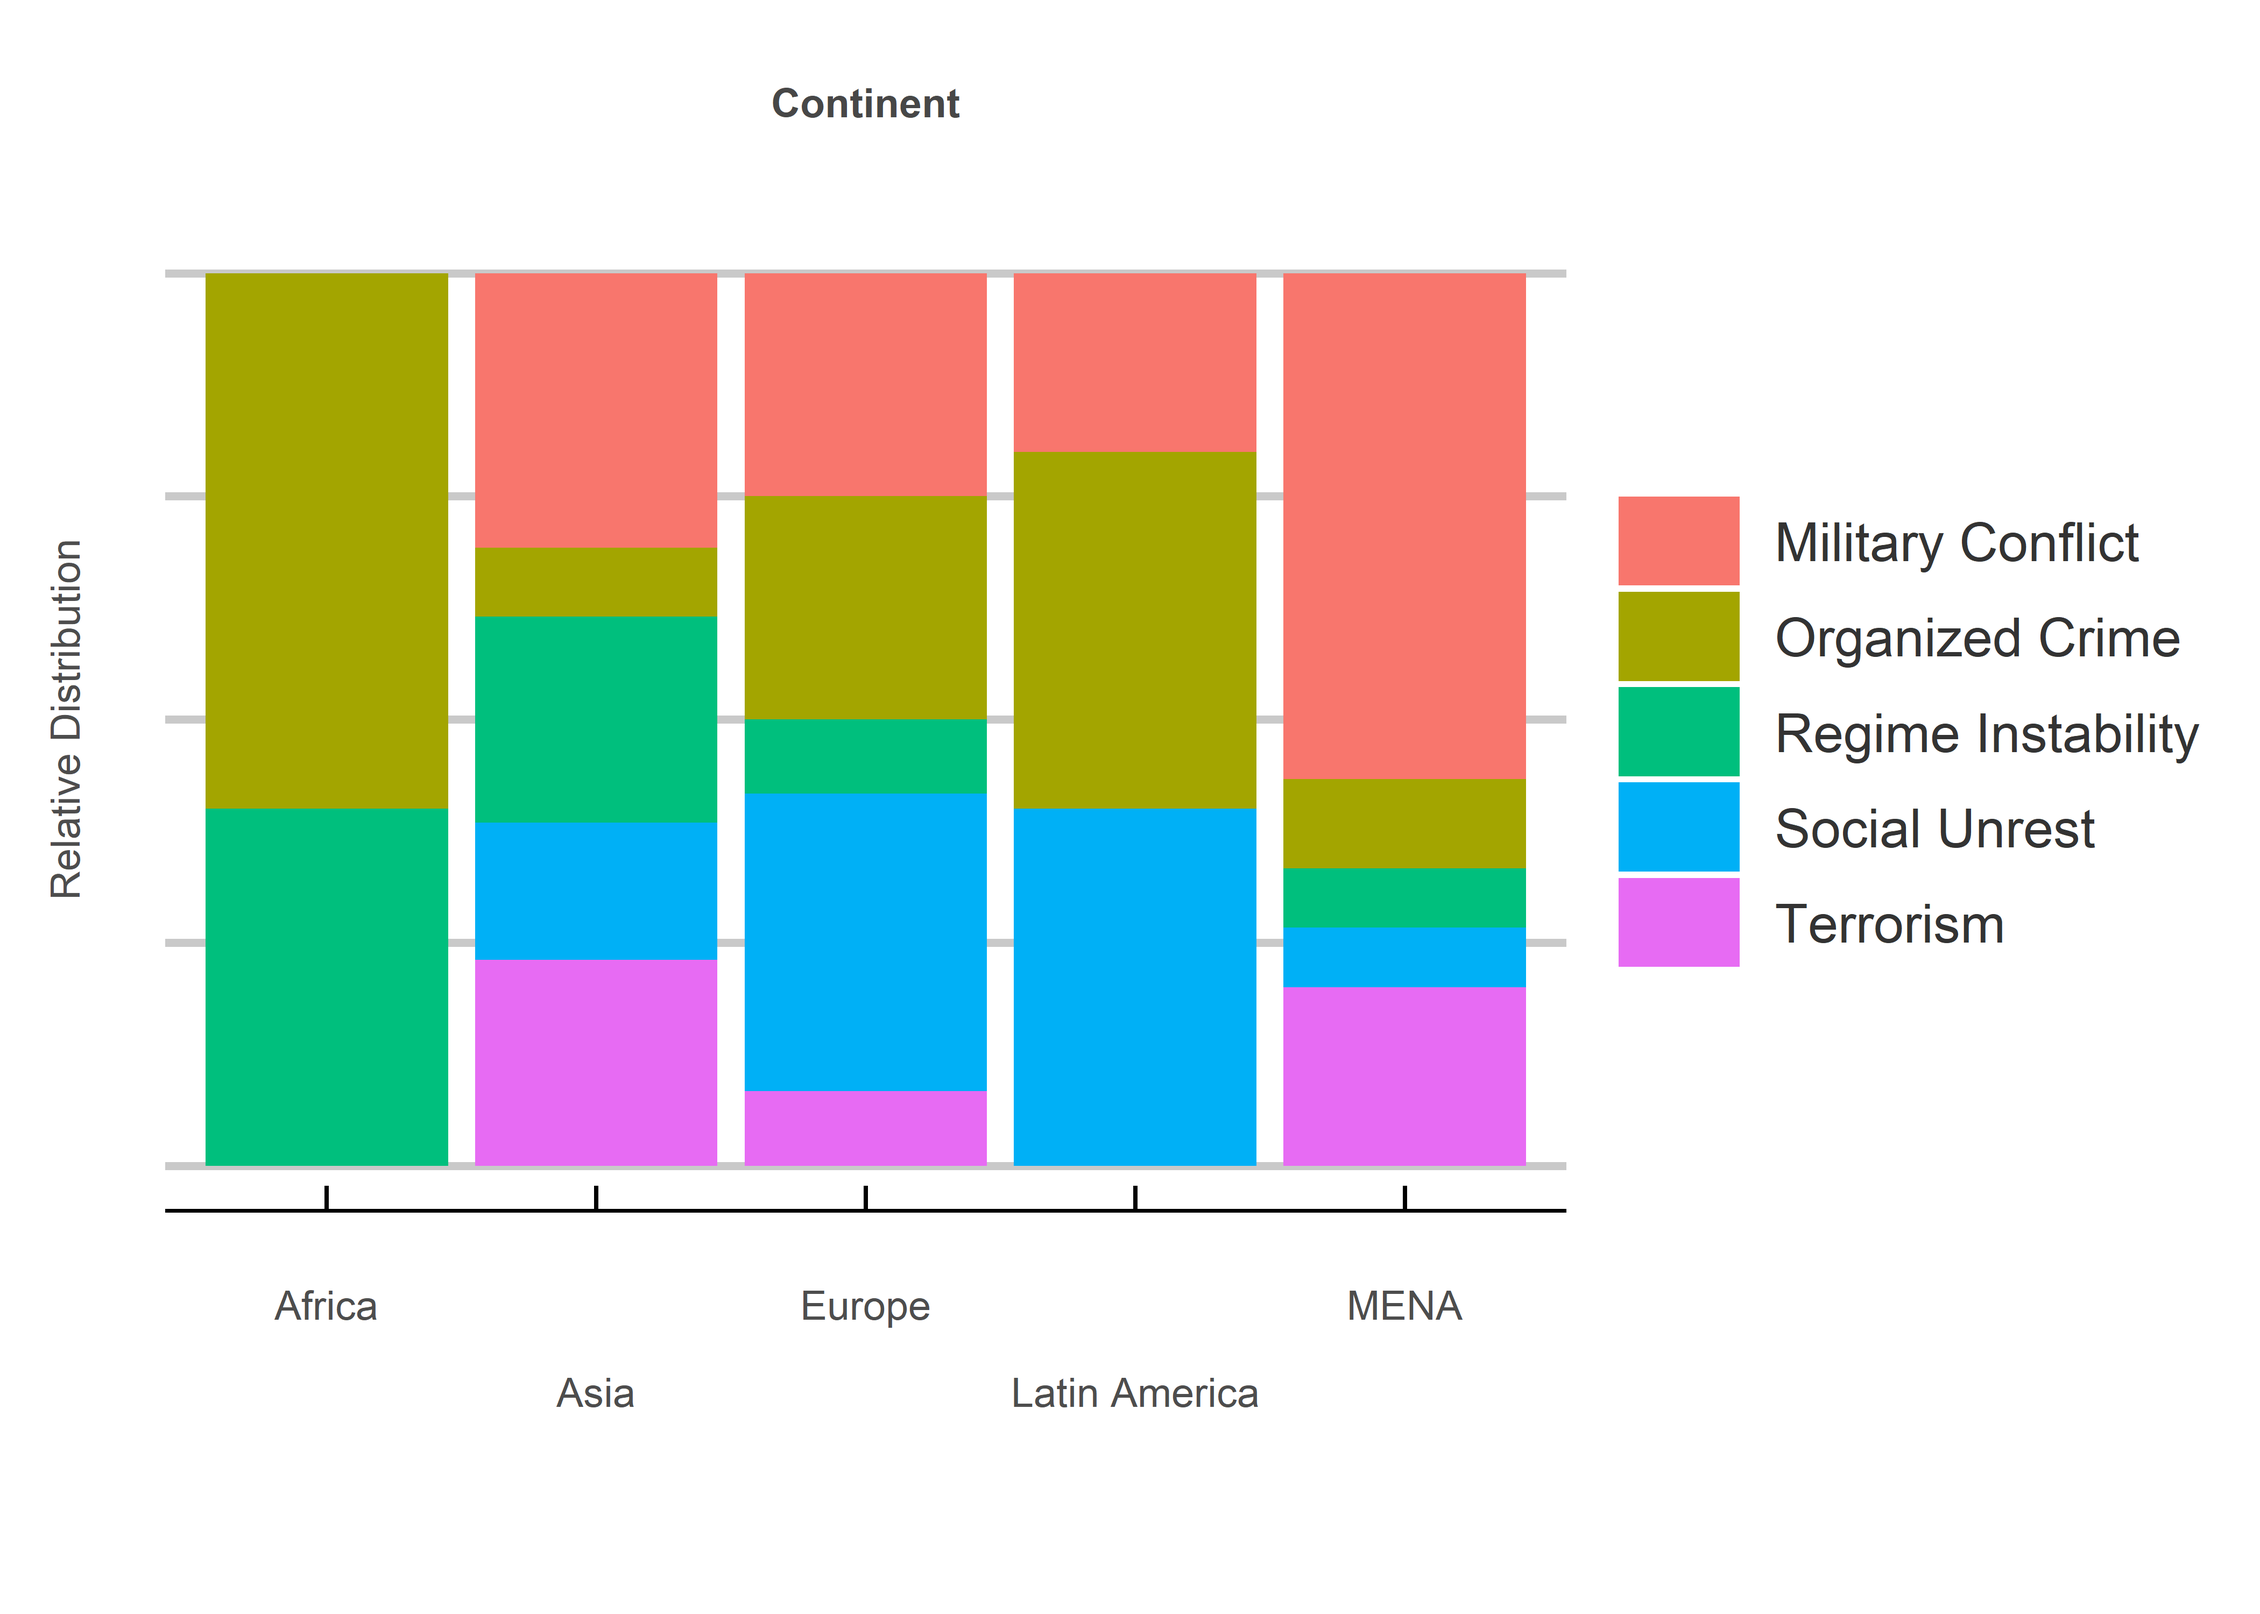
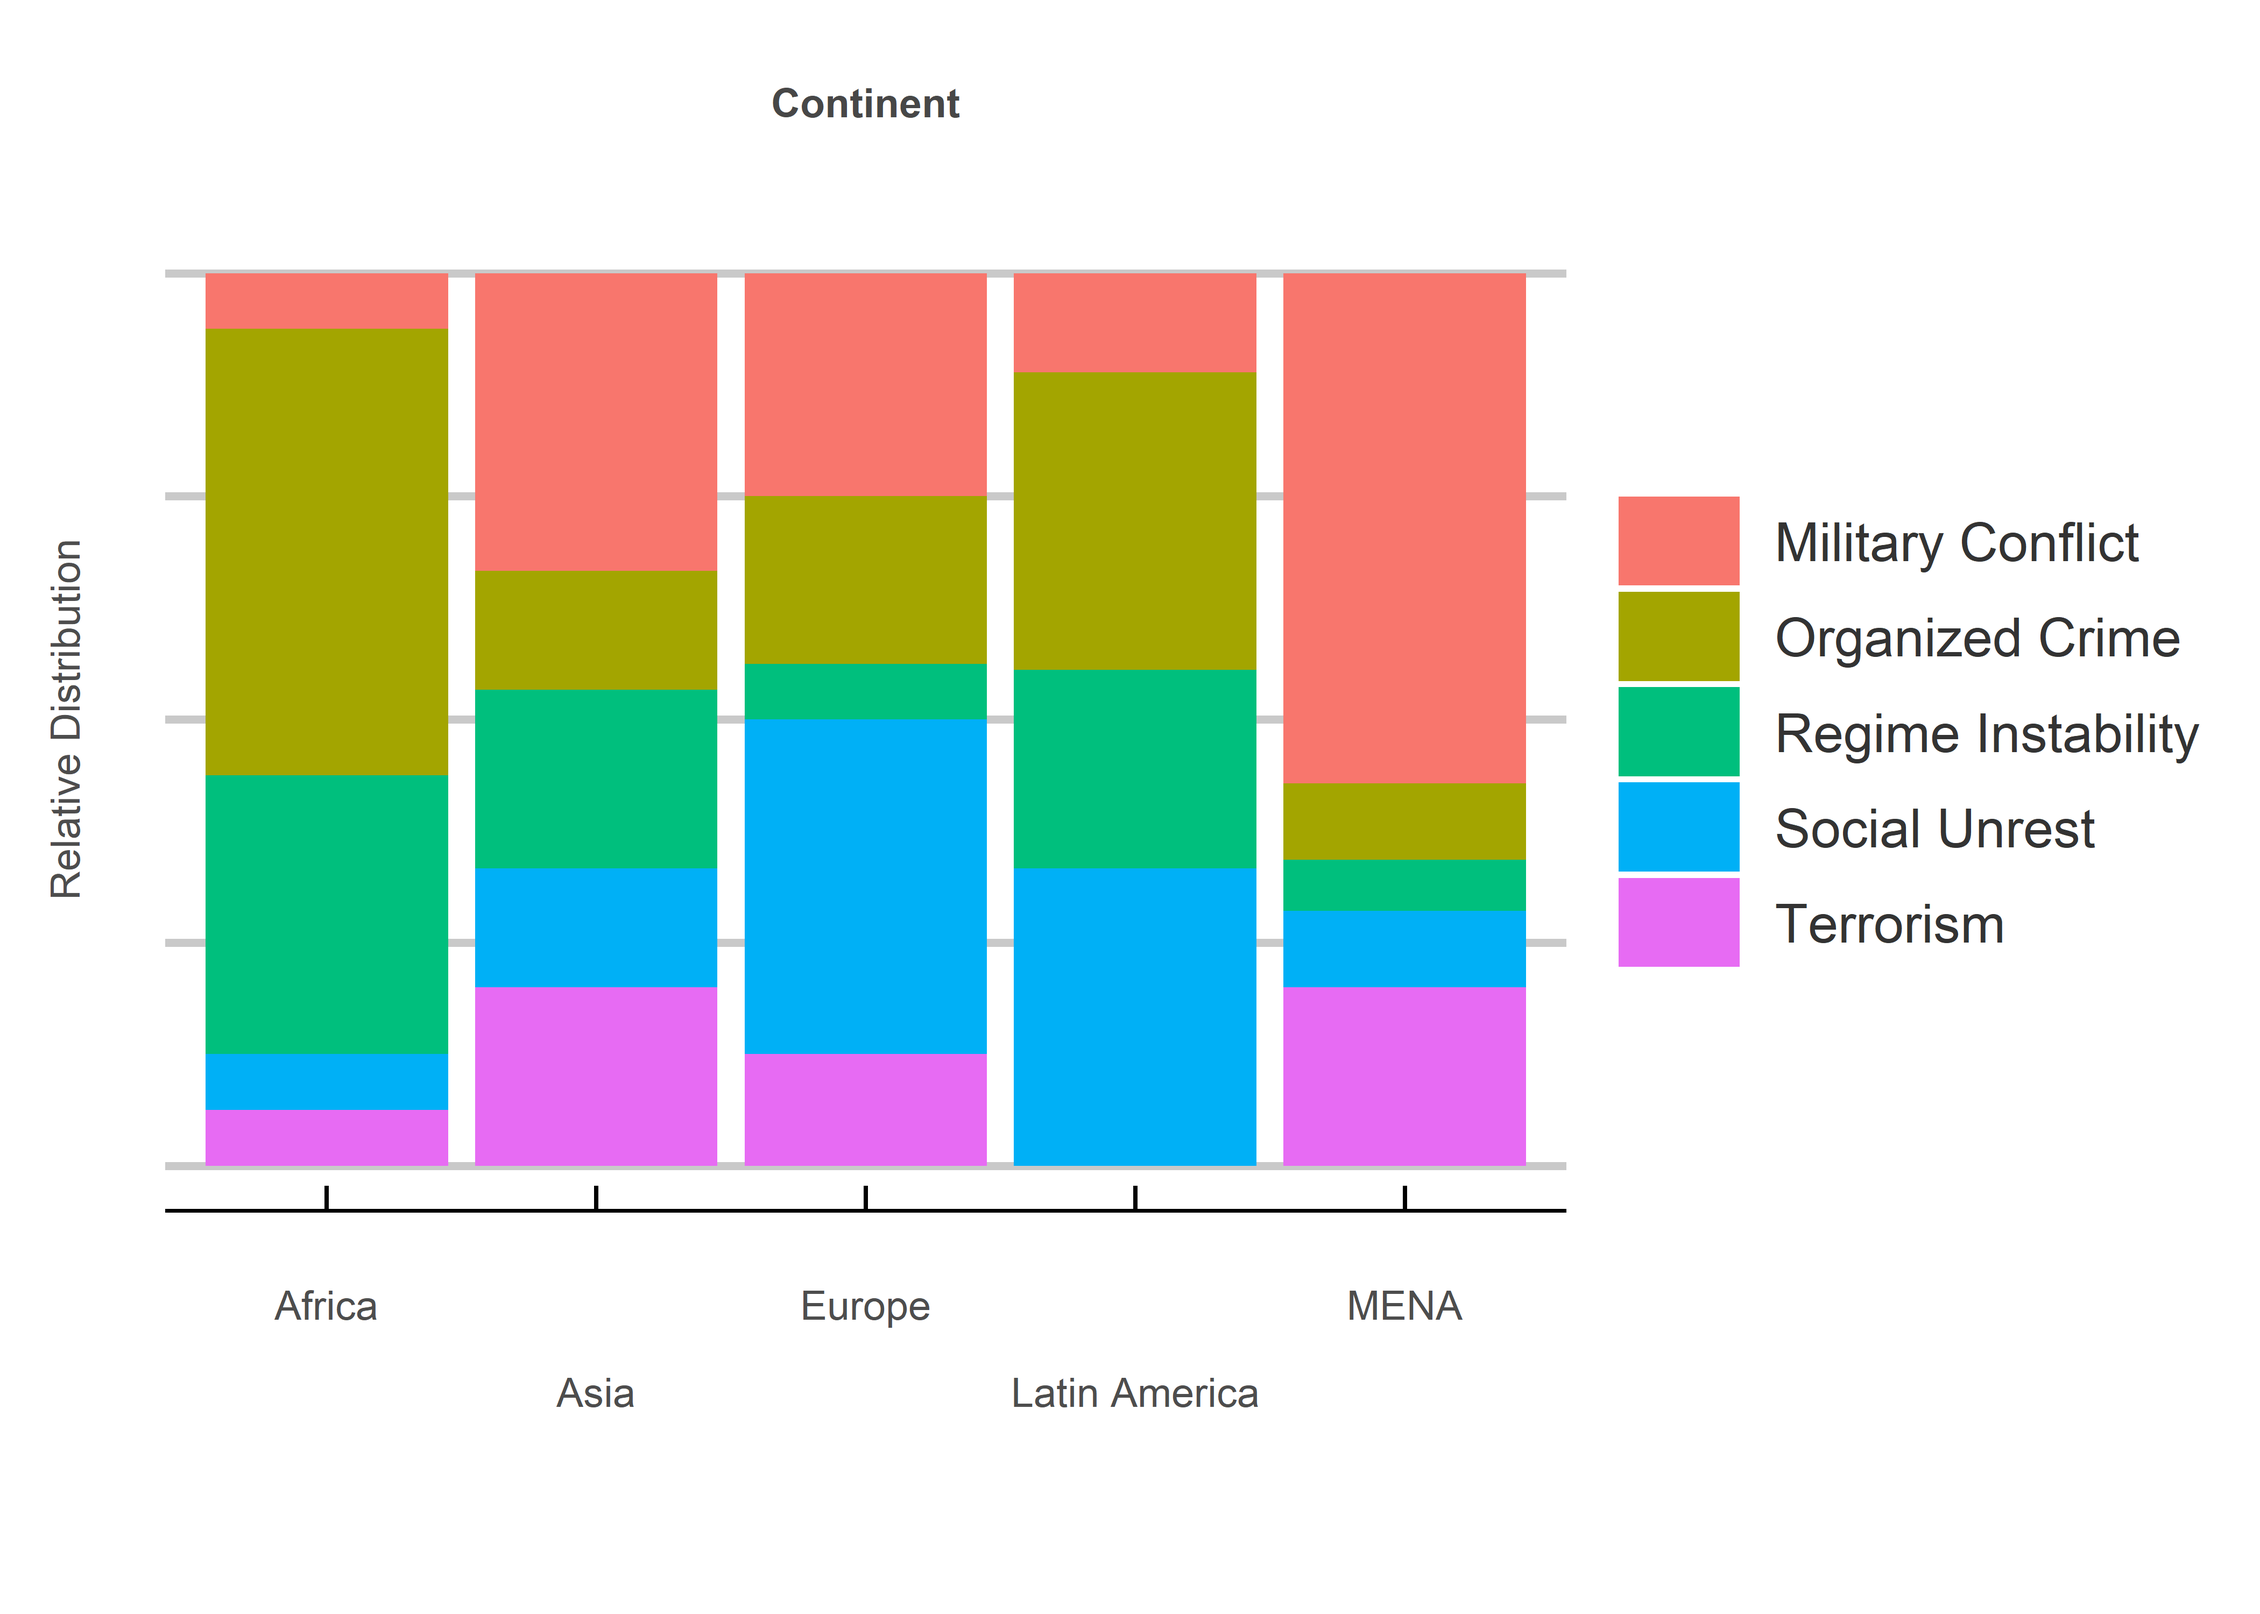
adding files

diff --git a/R/Risky-Business.md b/R/Risky-Business.md
@@ -5,10 +5,10 @@ Jack Carter
 
 ## **Summary**
 
-This project uses web scraping, regex and a scoring mechanism to
-identify the different kinds of political violence risks that occur in
-the emerging world, as well as how their prevalence differs by continent
-and region.
+This project uses web scraping, regex combinations and a labeling
+mechanism to identify political violence risks in the emerging world, as
+well as how their prevalence differs by continent and region. It uses 91
+headlines from 47 local online newspapers.
 
  
 
@@ -16,24 +16,18 @@ and region.
 
 **1) Scraping:**
 
-The websites of over 250 local newspapers in emerging regions are
-scraped three times a week, beginning February 7 2022.
+A database of local newspapers in the emerging world is scraped three
+times a week, beginning February 7 2022.
 
 **2) Regex:**
 
-A series of regex strings, including keywords, actor/action combinations
-and hyperbolic situation scenarios, are used to create multiple word
-banks.
+Regex strings (including keywords, actor/action combinations and
+hyperbolic situations) are used to create a series word banks.
 
-**3) Scoring Mechanism:**
+**3) Labeling Mechanism:**
 
-The word banks are used to score and label the headlines as one of 5
-kinds of political violence risks.
-
-**4) Z-scores:**
-
-The relative distribution of risks is then compared using a standardized
-score according to the relevant continent or region.
+The word banks are used to label headlines according to 5 political
+violence risks. They are then manually checked/adjusted for accuracy.
 
  
 
@@ -42,3 +36,17 @@ score according to the relevant continent or region.
 ### **1) Overview:**
 
 ![](Risky-Business_files/figure-gfm/unnamed-chunk-1-1.png)<!-- -->
+
+ 
+
+### **2) Regional Analysis:**
+
+![](Risky-Business_files/figure-gfm/unnamed-chunk-2-1.png)<!-- -->
+
+![](Risky-Business_files/figure-gfm/unnamed-chunk-3-1.png)<!-- -->
+
+![](Risky-Business_files/figure-gfm/unnamed-chunk-4-1.png)<!-- -->
+
+![](Risky-Business_files/figure-gfm/unnamed-chunk-5-1.png)<!-- -->
+
+![](Risky-Business_files/figure-gfm/unnamed-chunk-6-1.png)<!-- -->
